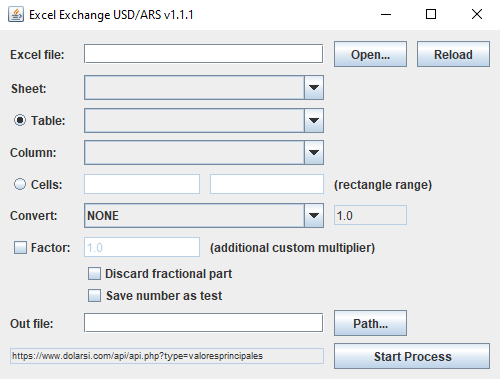
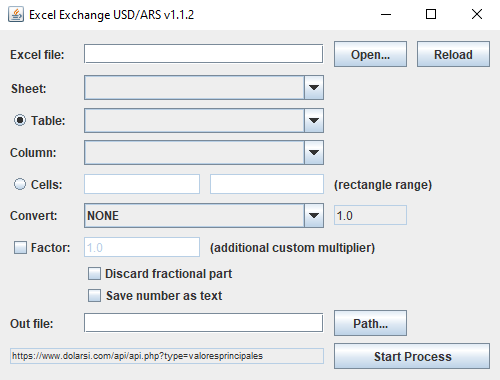
v1.1.2 - small fixes + spelling fix + enable link selection + update preview

diff --git a/src/ExcelExchangeUSD_ARS_UI.java b/src/ExcelExchangeUSD_ARS_UI.java
@@ -351,7 +351,7 @@ public class ExcelExchangeUSD_ARS_UI extends JFrame {
          */
 
         setContentPane(panelMain);
-        setTitle("Excel Exchange USD/ARS v1.1.1");
+        setTitle("Excel Exchange USD/ARS v1.1.2");
         pack();
         setDefaultCloseOperation(JFrame.EXIT_ON_CLOSE);
         Dimension dim = Toolkit.getDefaultToolkit().getScreenSize();
